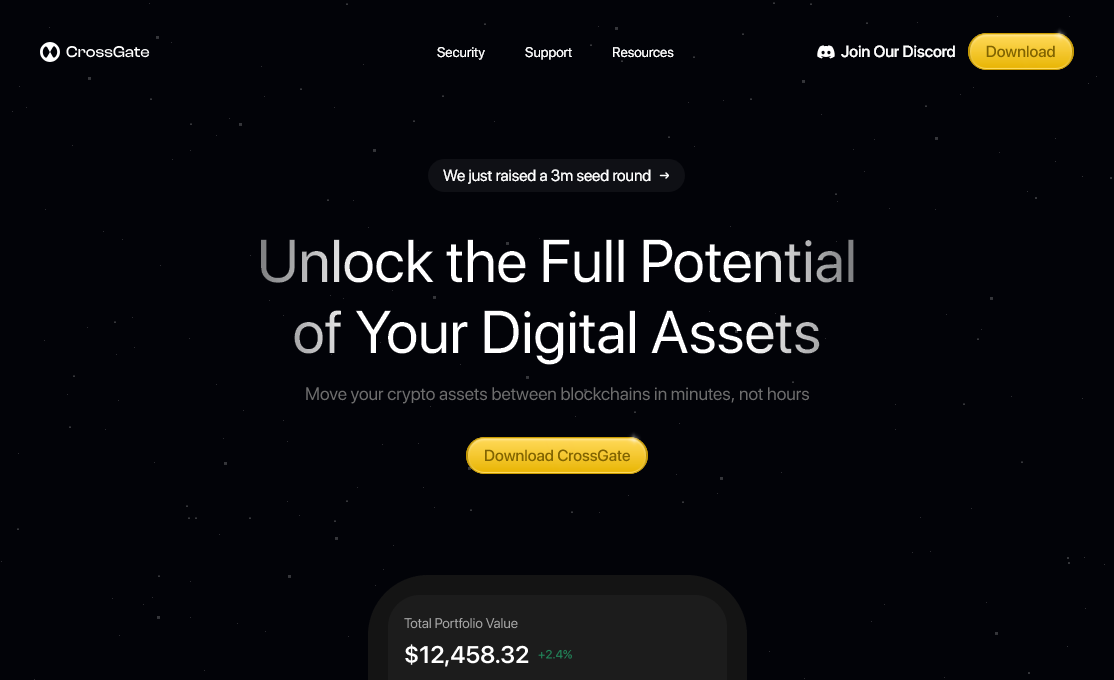
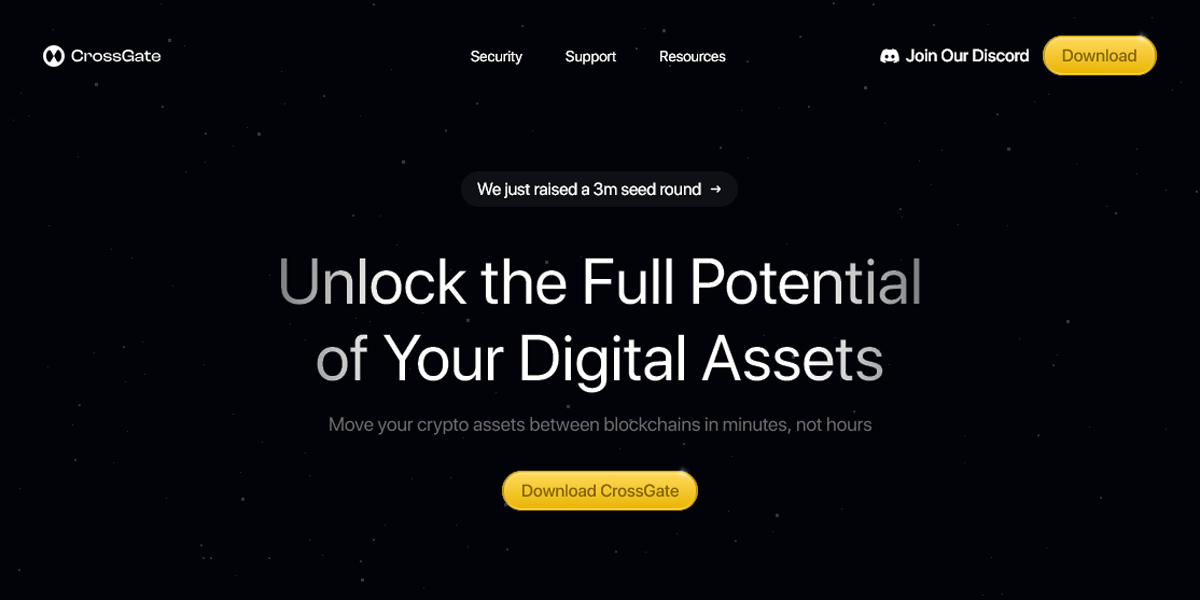
(update): meta img

diff --git a/index.html b/index.html
@@ -22,7 +22,7 @@
       <meta property="og:url" content="https://crossgate-crypto.vercel.app"/>
       <meta property="og:image" content="https://crossgate-crypto.vercel.app/og-image.png"/>
       <meta property="og:image:width" content="1200"/>
-      <meta property="og:image:height" content="680"/>
+      <meta property="og:image:height" content="600"/>
       <meta property="og:image:alt" content="Website Image Snippet"/>
       <meta name="robots" content="follow, index">
 
